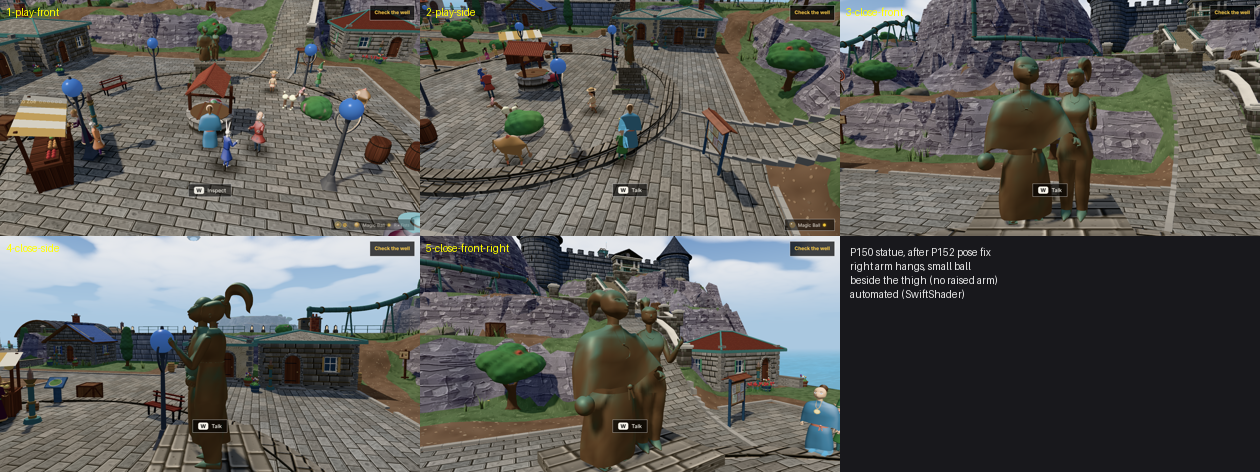
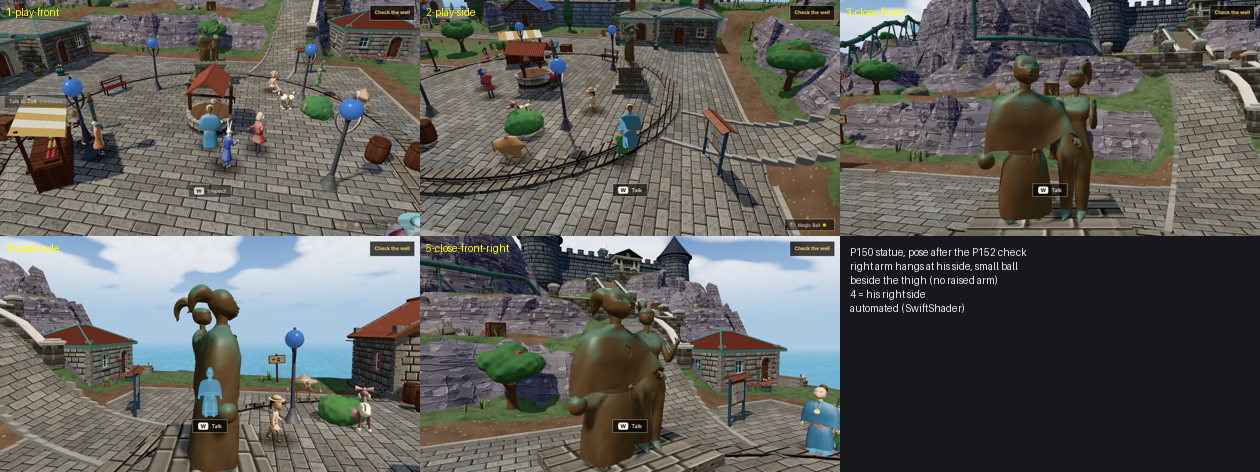
P152/P150 follow-up: Gilbert walks back to the office at Vesk's task; a load clears the morning; statue ball at his side (right-side picture); morning picture
Claude-Session: https://claude.ai/code/session_012GFEakZyL3XxjZKHRj5dFg

diff --git a/lba3/src/game/story/chapter1.js b/lba3/src/game/story/chapter1.js
@@ -316,7 +316,7 @@ export class Chapter1 extends ChapterBase {
       case 'vesk':
         if (!f.c1_task) {
           return c([['vesk', 'c1_vesk_1'], ['hero', 'c1_tw_vesk1'], ['vesk', 'c1_vesk_2'], ['hero', 'c1_tw_vesk2'], ['vesk', 'c1_vesk_3'], ['vesk', 'c1_vesk_4']], () => {
-            f.c1_task = true; g.updateObjective(); g.save(false);   // (the new goal shows in the objective panel)
+            f.c1_task = true; this.story.refreshCast({ walk: true }); g.updateObjective(); g.save(false);   // (the new goal shows in the objective panel; P152: Gilbert walks back to the water office)
           });
         }
         if (!f.c1_water) return c([['vesk', 'c1_vesk_wait']]);
@@ -1001,7 +1001,8 @@ export class Chapter1 extends ChapterBase {
     this.line.applyFlags(current);
     // (P152: a save from under chapter 2's card, before its morning lines were over — nextChapter saves first — had no
     //  objective and nothing ran (update waits for c1_started): it goes on from the morning's end)
-    if (current && !f.c1_started) { f.c1_started = true; this.morning = false; }
+    this.morning = false;   // (a load never lands inside the morning's lines)
+    if (current && !f.c1_started) f.c1_started = true;
     for (const v of W.valves || []) if (f['c1_valve_' + v.id]) this.openValve(v, true);
     // a save from between the third valve and the water scene must not leave the chapter stuck
     if (!f.c1_water && (W.valves || []).length && W.valves.every((v) => v.open)) { f.c1_water = true; W.well?.setWater?.(true); }

diff --git a/lba3/src/game/statue.js b/lba3/src/game/statue.js
@@ -169,7 +169,7 @@ export function buildStatue(scene, W, x, z, ry) {
   // (P150, the user 27.11: the ball raised over his head read badly from the square; his right arm now rests, the ball held
   //  low at his side. P152's look at it: bent forward, the hand brought the ball before his hip — from the side it stood
   //  out in front of him at the belt. Now the arm hangs nearly straight, a little out, the small ball beside his thigh)
-  pose(tw, { 'armR.sh.x': -0.06, 'armR.el.x': -0.18, 'armR.sh.z': -0.3,
+  pose(tw, { 'armR.sh.x': 0.08, 'armR.el.x': -0.1, 'armR.sh.z': -0.3,
     'armL.sh.z': 0.55, 'armL.sh.x': -0.25, 'armL.el.x': -0.35, 'head.y': 0.12, 'head.x': -0.08 });
   pose(zo, { 'armL.sh.z': -0.05, 'armL.sh.x': -0.45, 'armL.el.x': -1.9, 'armR.sh.z': -0.5, 'armR.sh.x': -0.2, 'armR.el.x': -0.3, 'head.y': -0.25, 'head.x': -0.05 });
   // the ball in his lowered hand

diff --git a/lba3/docs/lba-maturity/P152.md b/lba3/docs/lba-maturity/P152.md
@@ -31,11 +31,12 @@ The sweep found the same fault in more places (the chapter1 suite's `[talk]` log
 - `chapter1.js place()`: while the morning lines play (`this.morning`, not saved), Gilbert and Mira stay on chapter 1's
   well marks. When the lines end, `refreshCast({ walk: true })` runs. Gilbert walks down to the quay to meet the
   project's ferry, as his own line says ("the chief engineer lands today; let him explain the bill to me"). He answers
-  Vesk's speech from there, and after Vesk gives the task he walks to the water office. Mira walks to the office. Both
-  office placements carry `via:` (the office's front door), so the walk ends at the door instead of a cut.
+  Vesk's speech from there, and when Vesk gives the task (`c1_task`, which now recasts with `walk`) he walks back to
+  the water office. Mira walks to the office. Both office placements carry `via:` (the office's front door), so the
+  walk ends at the door instead of a cut.
 - `chapter1.js applyFlags()`: a save made under chapter 2's card, before the morning lines ended (`nextChapter` saves
   first), loaded with no objective and the chapter never started (`update` waits for `c1_started`). It now continues
-  from the end of the morning.
+  from the end of the morning. Every load also clears `morning`.
 - `story/index.js refreshCast`: a recast that gives a walking person the same place he is walking to lets the walk
   continue. A load or a chapter card (`noWalk`) still puts everyone straight on their places. This applies to every
   chapter and side story that calls `refreshCast()`.
@@ -55,7 +56,9 @@ The sweep found the same fault in more places (the chapter1 suite's `[talk]` log
   the barrier, Sendell's scene and lines, `endPrologue`, the fade, chapter 2's card, and the morning lines. It checks
   that each line's speaker is present, drawn, in Twinsen's scene and within talking distance; that the story's people
   who were at the well are still there at the first line; that every resident around the well is shown and on the
-  ground; that Gilbert walks to the quay and Mira to the office, both in sight; that no absent-speaker line was said;
+  ground; that Gilbert is in the camera's view and faces Twinsen during his line (picture:
+  `captures/p152-morning-gilbert.png`, inspected: Gilbert by the well, talking to Twinsen); that Gilbert walks to the
+  quay and Mira to the office, both in sight; that no absent-speaker line was said;
   that the guard catches a line from a hidden speaker; and that a save from under the card loads into a running
   chapter. The chapter-1 steps before the cave are set by flags; only the end of the cave and the chapter change are
   played.
@@ -66,18 +69,31 @@ The sweep found the same fault in more places (the chapter1 suite's `[talk]` log
 
 | Suite | Result | `[talk]` lines |
 |---|---|---|
-| `p152-well-morning` | PASS (11/11) | only the guard's own planted test line |
+| `p152-well-morning` (final code) | PASS (11/11) | only the guard's own planted test line |
 | `chapter2` (Zeelich) | PASS | none after the Zoé fix (before it: 10, all Zoé at the lighthouse) |
 | `opening-tutorial` | PASS | none |
 | `walkers` | PASS | none |
 | `dialogue-check` | PASS (no text changed) | n/a |
-| `chapter1` (the `project` chapter, where the edit is) | FAIL 3, pre-existing: Arthur's radio, Doran, the end. The baseline (`origin/ccr-c1c2c4b9-dep6ed`, my source files reverted) fails the same 3 checks with the same values | before the sweep: Gilbert at Vesk's arrival, the depot guard, Zoé ×5, and Mira. After: Mira only. That case is the suite calling `story.cur.talk(mira)` directly from outside the office, not a game route |
+| `chapter1` (the `project` chapter, where the edit is; final code) | FAIL 3, pre-existing: Arthur's radio, Doran, the end. The baseline (`origin/ccr-c1c2c4b9-dep6ed`, my source files reverted) fails the same 3 checks with the same values | before the sweep: Gilbert at Vesk's arrival, the depot guard, Zoé ×5, and Mira. After: Mira only. That case is the suite calling `story.cur.talk(mira)` directly from outside the office, not a game route |
 
-The chapter1 suite's 3 pre-existing failures (after "let's go home", `T.talk('arthur')` does not start the radio talk)
-are not caused by this change and were not investigated further. They are handed to the coordinator.
+(`chapter2`, `opening-tutorial`, `walkers` and `dialogue-check` ran on the second commit's code. The last two edits, the
+`c1_task` recast and the `morning` reset, touch chapter 2 (`project`) only, and `chapter1` and `p152-well-morning`
+were rerun after them.)
 
-Not covered: a manual play on a real GPU; the guard's off-screen voice in the remaining chapters (3–16) beyond the
-suites above. Any `TALK` line in a later suite run marks a story placement to fix at its cause.
+The chapter1 suite's 3 failures: after the cut home, `T.talk('arthur')` does not start Arthur's radio talk, so c1_radio
+stays unset and the objective stays "Go home. Arthur is calling you". This is the pilot's chapter. The failures are on
+the baseline too and are not listed in `docs/lba-maturity/KNOWN-FAILING.md`. They are undiagnosed: it is not known
+whether this is a test-harness problem or a real dead end for players. Handed to the coordinator as urgent to check.
+
+Limits: no manual play on a real GPU. The walks are straight lines (walkOn) and the test follows only their first
+3 s, then that they end in the right scene. The `[talk]` log has been read only in the suites for chapters 1–3 and the
+opening; any `TALK` line in a later suite run marks a story placement to fix at its cause.
+
+Visible changes for the user to pick:
+- Gilbert and Mira stay at the well for the morning lines, then walk off. Gilbert waits on the quay for Vesk's ferry
+  and walks back to the water office after Vesk's task; Mira goes to the office.
+- A line whose speaker is hidden or elsewhere plays as a voice with no body (no bubble).
+- The statue pose (below).
 
 ## P150: the square's statue
 
@@ -86,9 +102,9 @@ side) and three close views (front, left side, three-quarter right) to `captures
 `captures/statue-150/sheet.png` (1260 px wide). The pictures are not black.
 
 What the first pictures showed (the P150 pose as committed): there is no raised arm and no clipping. The right arm was
-bent forward, though, so the ball sat in front of his hip; from his right side it stood out in front of him at belt
-height, which risks the same reading the user objected to. Changed in `statue.js`: the arm now hangs almost straight and
-slightly out (`armR.sh.x -0.06, el.x -0.18, sh.z -0.3`), and the ball is smaller (scale 0.62, was 0.8) and sits beside
-the thigh. In the new pictures the ball hangs at his right side, outside the robe. The upper arm is hidden under the
+bent forward, though, so the ball sat in front of his hip; from the side it stood out in front of him at belt height,
+which risks the same reading the user objected to. Changed in `statue.js`: the arm now hangs at his side, slightly out
+(`armR.sh.x 0.08, el.x -0.1, sh.z -0.3`), and the ball is smaller (scale 0.62, was 0.8) and sits beside the thigh. From
+his right side (picture 4) it sits within the robe's depth, not in front. In the new pictures the ball hangs at his right side, outside the robe. The upper arm is hidden under the
 cape, as on the live Twinsen model, and nothing clips. This is a visible world change for the user to pick. The pictures
 were inspected by me (automated, SwiftShader), not by a person.
